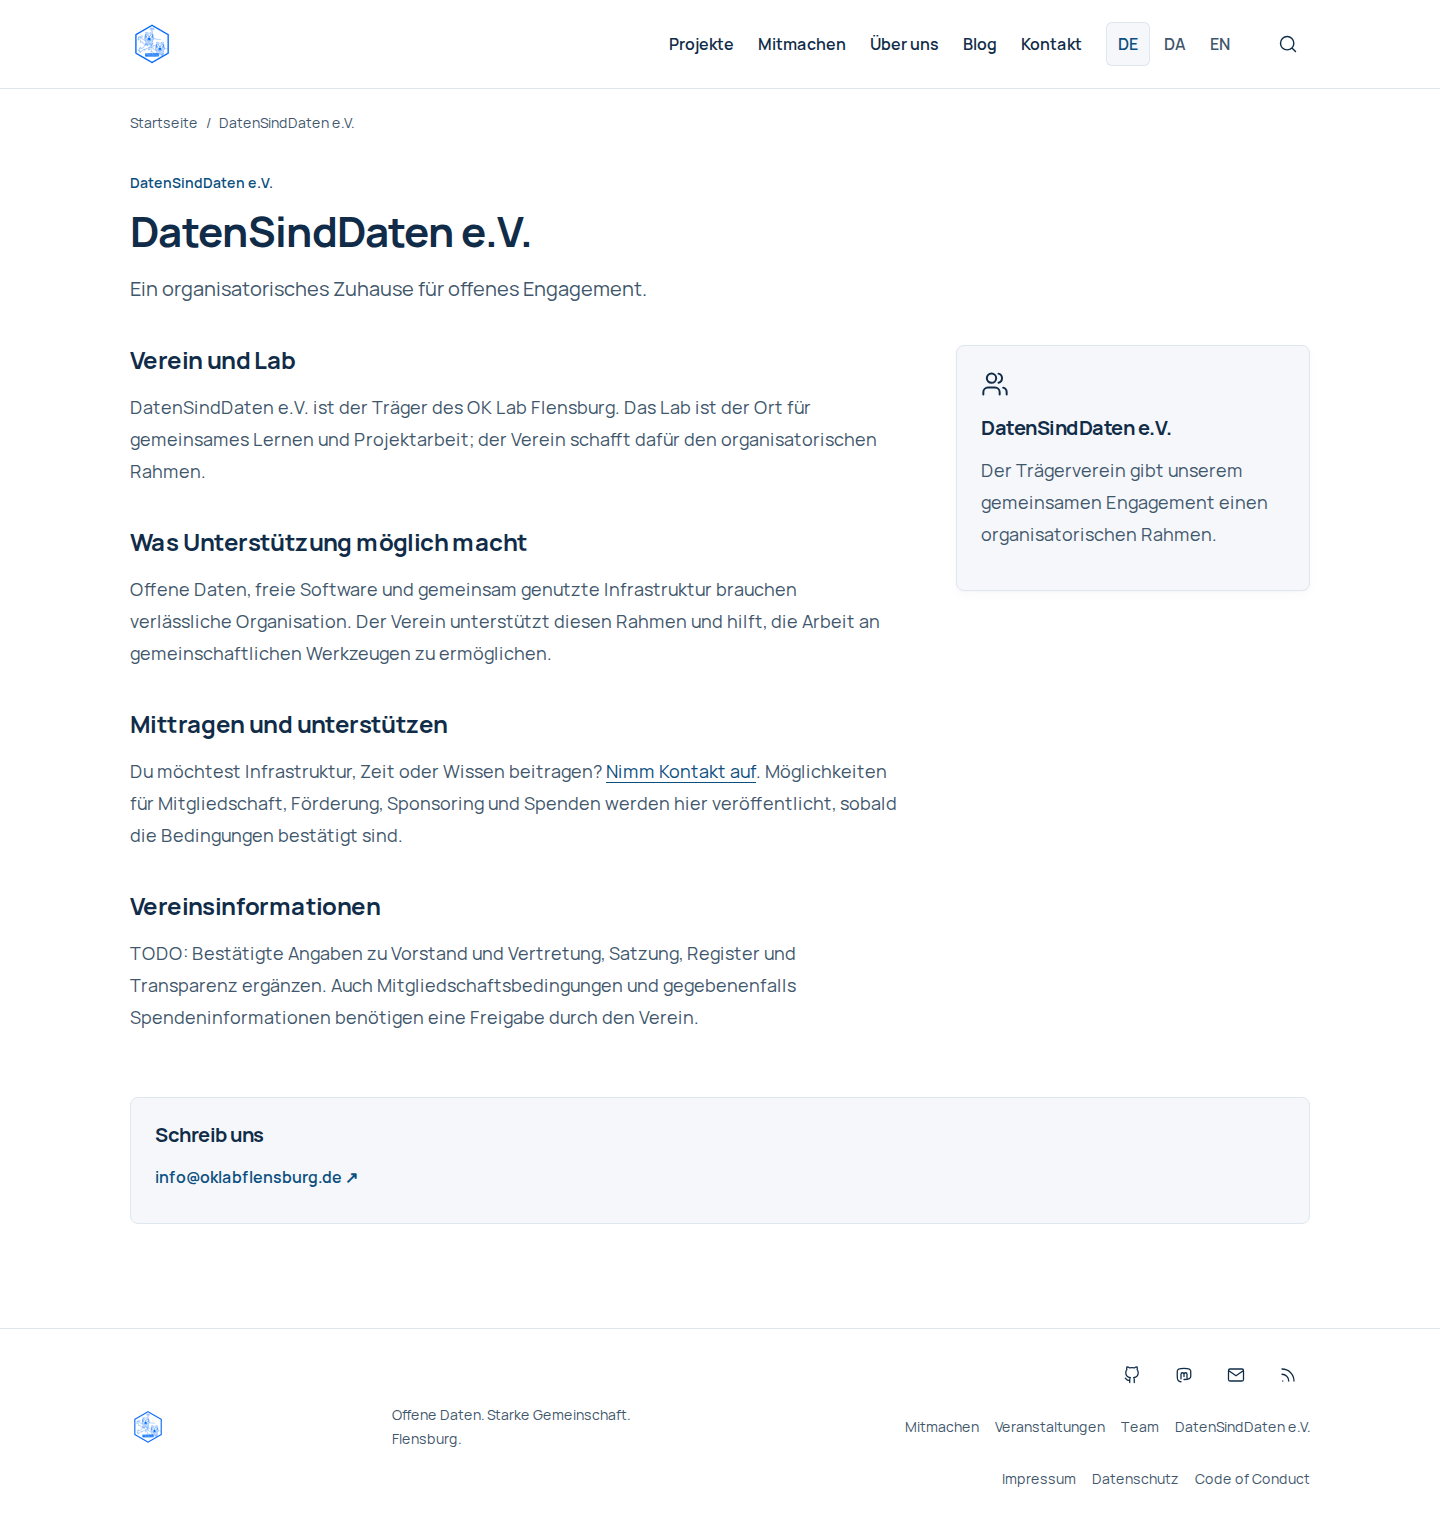
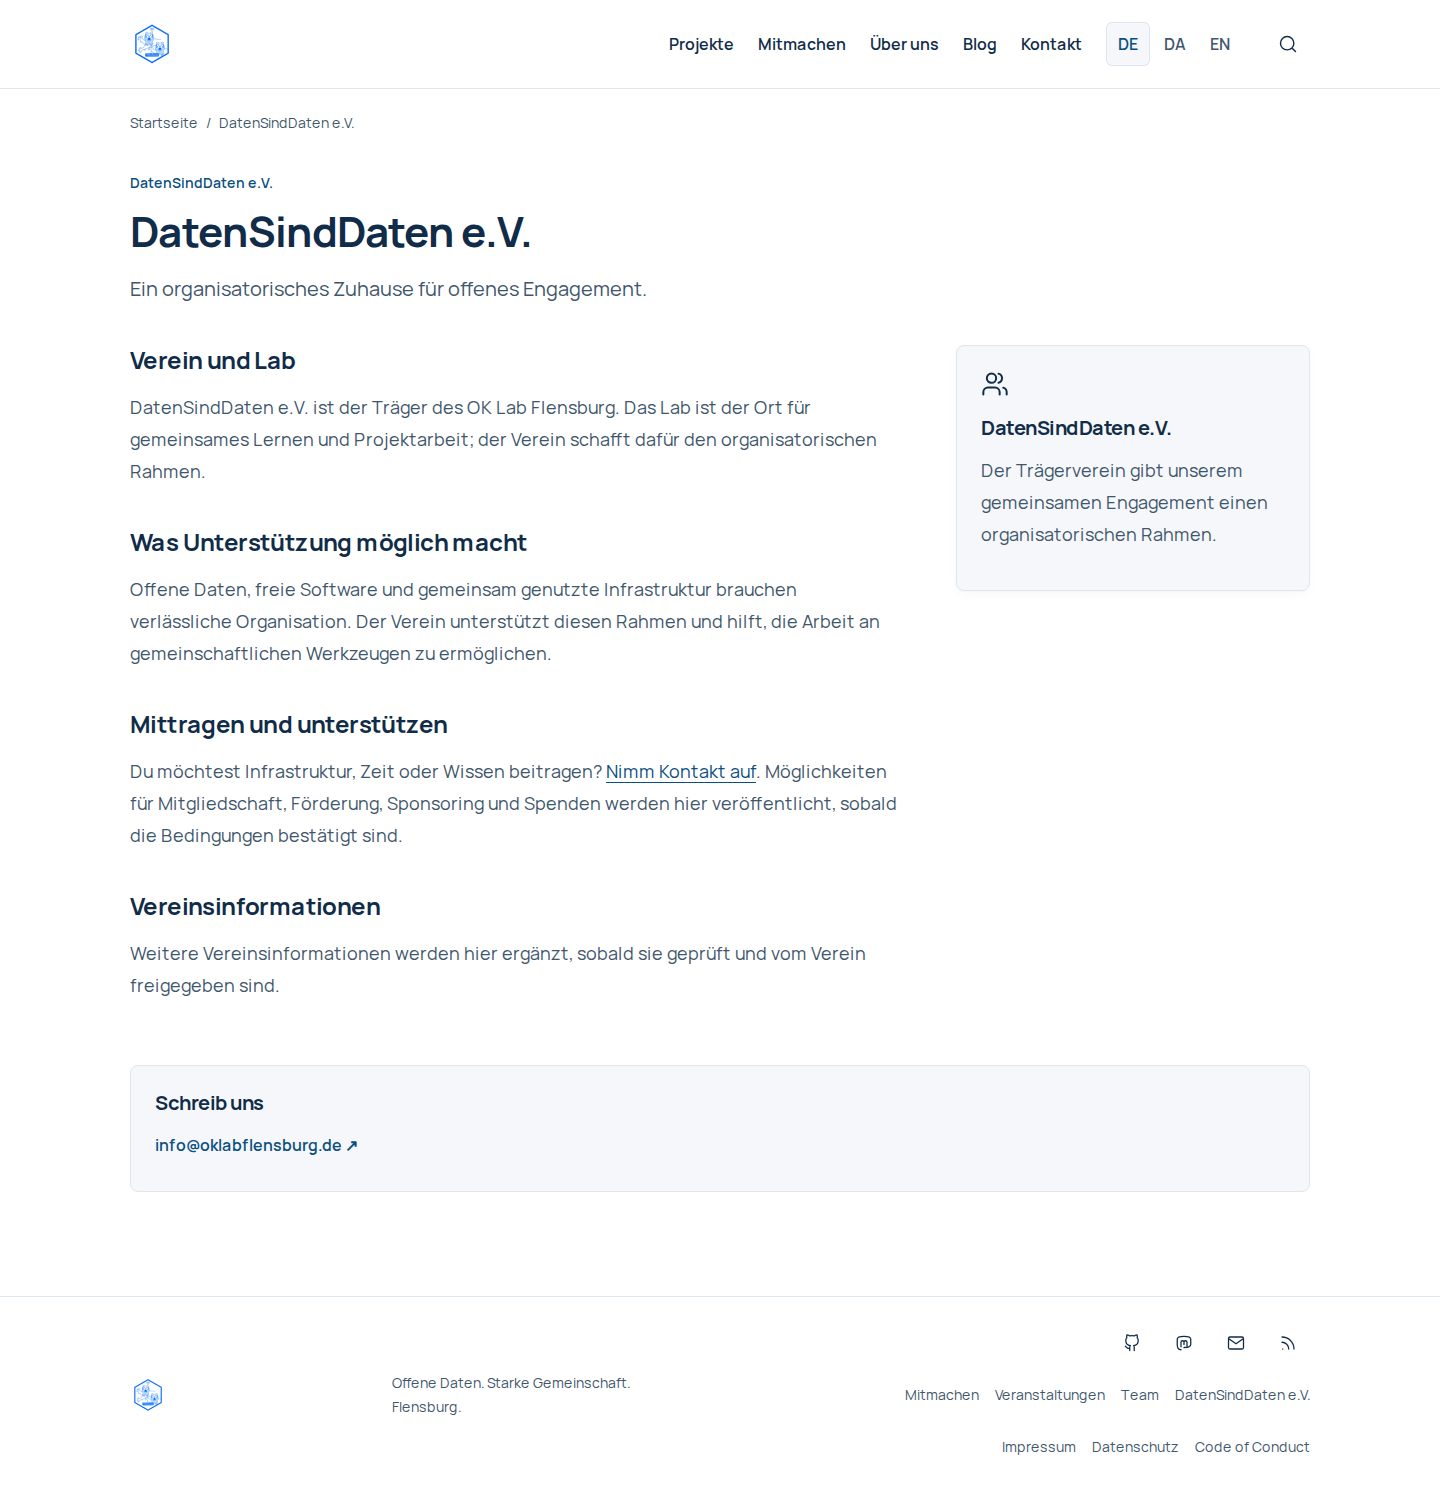
content: remove publication-facing TODOs

diff --git a/tests/content-placeholders.test.ts b/tests/content-placeholders.test.ts
@@ -1,0 +1,41 @@
+import { readFileSync, readdirSync } from 'node:fs'
+import { join } from 'node:path'
+import { describe, expect, it } from 'vitest'
+
+// Editorial validation only: fenced/inline code and HTML comments can document
+// examples intentionally. Replace excluded spans with spaces so removal cannot
+// assemble new markup/tokens. Frontmatter stays included because titles render too.
+function publicationPlaceholders(markdown: string) {
+  const prose = markdown
+    .replace(/^ {0,3}(`{3,}|~{3,})[^\n]*\n[\s\S]*?^ {0,3}\1[ \t]*$/gm, ' ')
+    .replace(/<!--[^]*?--!?>/g, ' ')
+    .replace(/(`+)[^]*?\1/g, ' ')
+  return prose.match(/\b(?:TODO|TBD|placeholder|changeme|replace-me)\b|\{\{[^}]+\}\}|\$\{[^}]+\}|<%[^]*?%>|\[(?:insert|replace)[^\]]*\]/gi) ?? []
+}
+
+function markdownFiles(directory: string): string[] {
+  return readdirSync(directory, { withFileTypes: true }).flatMap((entry) => {
+    const path = join(directory, entry.name)
+    return entry.isDirectory() ? markdownFiles(path) : entry.name.endsWith('.md') ? [path] : []
+  })
+}
+
+describe('publication-facing Markdown', () => {
+  it.each(markdownFiles('content'))('%s contains no editorial placeholders', (path) => {
+    expect(publicationPlaceholders(readFileSync(path, 'utf8'))).toEqual([])
+  })
+
+  it.each(['TODO: confirm board', 'TBD', 'Placeholder', 'changeme', 'replace-me', '{{name}}', '${NAME}', '<%= name %>', '[insert name]'])('rejects %s in prose', (text) => {
+    expect(publicationPlaceholders(text)).not.toEqual([])
+  })
+
+  it('keeps excluded examples separated from adjacent prose', () => {
+    expect(publicationPlaceholders('TO`example`DO and TB<!-- note -->D and <!-- TODO --!>')).toEqual([])
+  })
+
+  it('allows documented code examples and ignores comments without hiding later prose', () => {
+    expect(publicationPlaceholders('```ts\n// TODO example\n```\n~~~yaml\nname: TBD\n~~~\nUse `{{name}}`.\n<!-- TODO internal -->')).toEqual([])
+    expect(publicationPlaceholders('```ts\n// TODO example\n```\nTODO: publish')).toEqual(['TODO'])
+    expect(publicationPlaceholders('Mastodon and OpenStreetMap')).toEqual([])
+  })
+})

diff --git a/tests/e2e/site.spec.ts b/tests/e2e/site.spec.ts
@@ -56,6 +56,7 @@ for (const locale of ['de', 'da', 'en']) {
         await expect(page.locator('link[hreflang="en-GB"]')).toHaveCount(1)
       }
       await expect(page.locator('main')).toBeVisible()
+      await expect(page.locator('main')).not.toContainText(/\b(?:TODO|TBD|placeholder|changeme|replace-me)\b/i)
       expect(
         await page.evaluate(
           () => document.documentElement.scrollWidth <= innerWidth,

diff --git a/content/de/pages/code-of-conduct.md b/content/de/pages/code-of-conduct.md
@@ -19,4 +19,4 @@ Belästigung, Diskriminierung, Drohungen und die Veröffentlichung privater Info
 
 Sprich bei Problemen eine organisierende Person an oder nutze den allgemeinen Kontakt. Schildere nur Informationen, die du teilen möchtest. Veröffentliche Beschwerden über persönliche Vorfälle nicht als öffentliches Issue.
 
-TODO: Den Kodex gemeinsam bestätigen sowie vertrauliche Ansprechpersonen und ein verbindliches Verfahren für Meldungen und Maßnahmen benennen.
+Dieser Kodex ist ein Vorschlag zur gemeinsamen Abstimmung. Vertrauliche Ansprechpersonen und das Verfahren für Meldungen und Maßnahmen werden nach der gemeinsamen Vereinbarung veröffentlicht.

diff --git a/content/da/pages/code-of-conduct.md b/content/da/pages/code-of-conduct.md
@@ -19,4 +19,4 @@ Chikane, diskrimination, trusler og deling af private oplysninger hører ikke hj
 
 Tal med en organisator eller brug den fælles kontaktadresse ved problemer. Del kun det, du ønsker at dele. Beskriv ikke personlige hændelser i offentlige issues.
 
-TODO: Bekræft kodekset i fællesskab, udpeg fortrolige kontaktpersoner og fastlæg en procedure for henvendelser og handling.
+Dette kodeks er et forslag til fælles drøftelse. Fortrolige kontaktpersoner og proceduren for henvendelser og handling bliver offentliggjort, når der er opnået en fælles aftale.

diff --git a/content/en/pages/code-of-conduct.md b/content/en/pages/code-of-conduct.md
@@ -19,4 +19,4 @@ Harassment, discrimination, threats and publishing private information have no p
 
 If a problem arises, speak to an organiser or use the general contact address. Share only what you are comfortable sharing. Do not report personal incidents in public issues.
 
-TODO: Agree on this code together, name confidential contacts and establish a clear process for reports and actions.
+This code is a proposal for community discussion. Confidential contacts and the process for reports and actions will be published once they have been agreed together.

diff --git a/content/de/pages/daten-sind-daten.md b/content/de/pages/daten-sind-daten.md
@@ -21,4 +21,4 @@ Du möchtest Infrastruktur, Zeit oder Wissen beitragen? [Nimm Kontakt auf](/kont
 
 ## Vereinsinformationen
 
-TODO: Bestätigte Angaben zu Vorstand und Vertretung, Satzung, Register und Transparenz ergänzen. Auch Mitgliedschaftsbedingungen und gegebenenfalls Spendeninformationen benötigen eine Freigabe durch den Verein.
+Weitere Vereinsinformationen werden hier ergänzt, sobald sie geprüft und vom Verein freigegeben sind.

diff --git a/content/da/pages/daten-sind-daten.md b/content/da/pages/daten-sind-daten.md
@@ -21,4 +21,4 @@ Vil du bidrage med infrastruktur, tid eller viden? [Kontakt os](/kontakt). Mulig
 
 ## Oplysninger om foreningen
 
-TODO: Tilføj bekræftede oplysninger om bestyrelse, tegningsret, vedtægter, register og gennemsigtighed. Medlemsvilkår og eventuelle donationsoplysninger kræver også foreningens godkendelse.
+Yderligere oplysninger om foreningen bliver tilføjet her, når de er kontrolleret og godkendt af foreningen.

diff --git a/content/en/pages/daten-sind-daten.md b/content/en/pages/daten-sind-daten.md
@@ -21,4 +21,4 @@ Would you like to contribute infrastructure, time or knowledge? [Contact us](/ko
 
 ## Association information
 
-TODO: Add verified board and representation details, statutes, registration and transparency information. Membership terms and any donation details also need approval from the association.
+Further association information will be added here once it has been verified and approved by the association.
